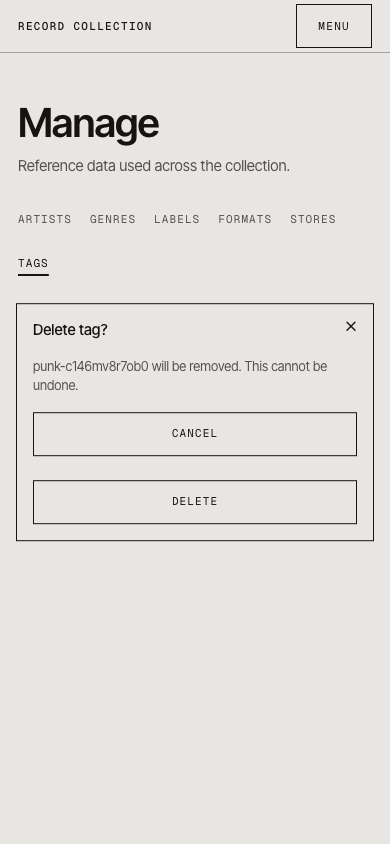
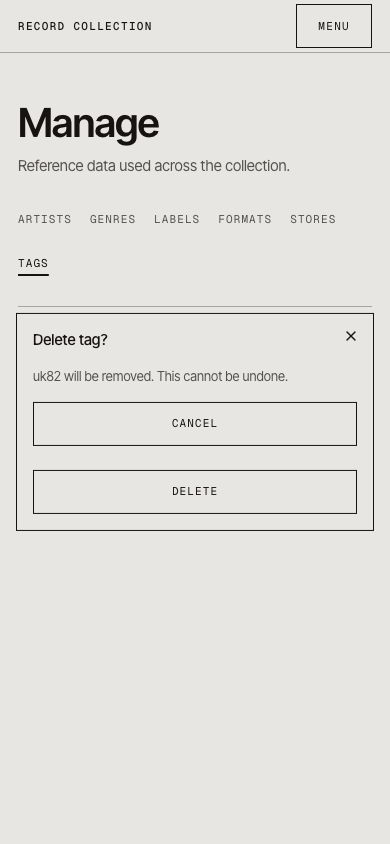
Step 146's captures, committed alone: the dialog's six retaken with plain names (The Varukers, a tag uk82) after Design read a suffix in part 1's pictures; the record form new and editing at 390 coarse and 1280 fine, GBH's record, both disclosures drawn with §T.1's mark

Changed region(s): [[0.0308, 0.3389, 0.9538, 0.6469]]

diff --git a/docs/captures/part2-146/form-146.md b/docs/captures/part2-146/form-146.md
@@ -1,0 +1,10 @@
+# Step 146: part 2, the record form
+
+The test database, desktop Chromium, touch on for the coarse pointer; whole pages. The record is this tool’s own; editing opens both disclosures, new leaves them closed.
+
+| file | screen | window | pointer | page height |
+|---|---|---|---|---|
+| form-new-w390-coarse-h844.png | the record form, new | 390 | coarse | 844 |
+| form-edit-w390-coarse-h2660.png | the record form, editing | 390 | coarse | 2660 |
+| form-new-w1280-fine-h844.png | the record form, new | 1280 | fine | 844 |
+| form-edit-w1280-fine-h1981.png | the record form, editing | 1280 | fine | 1981 |
